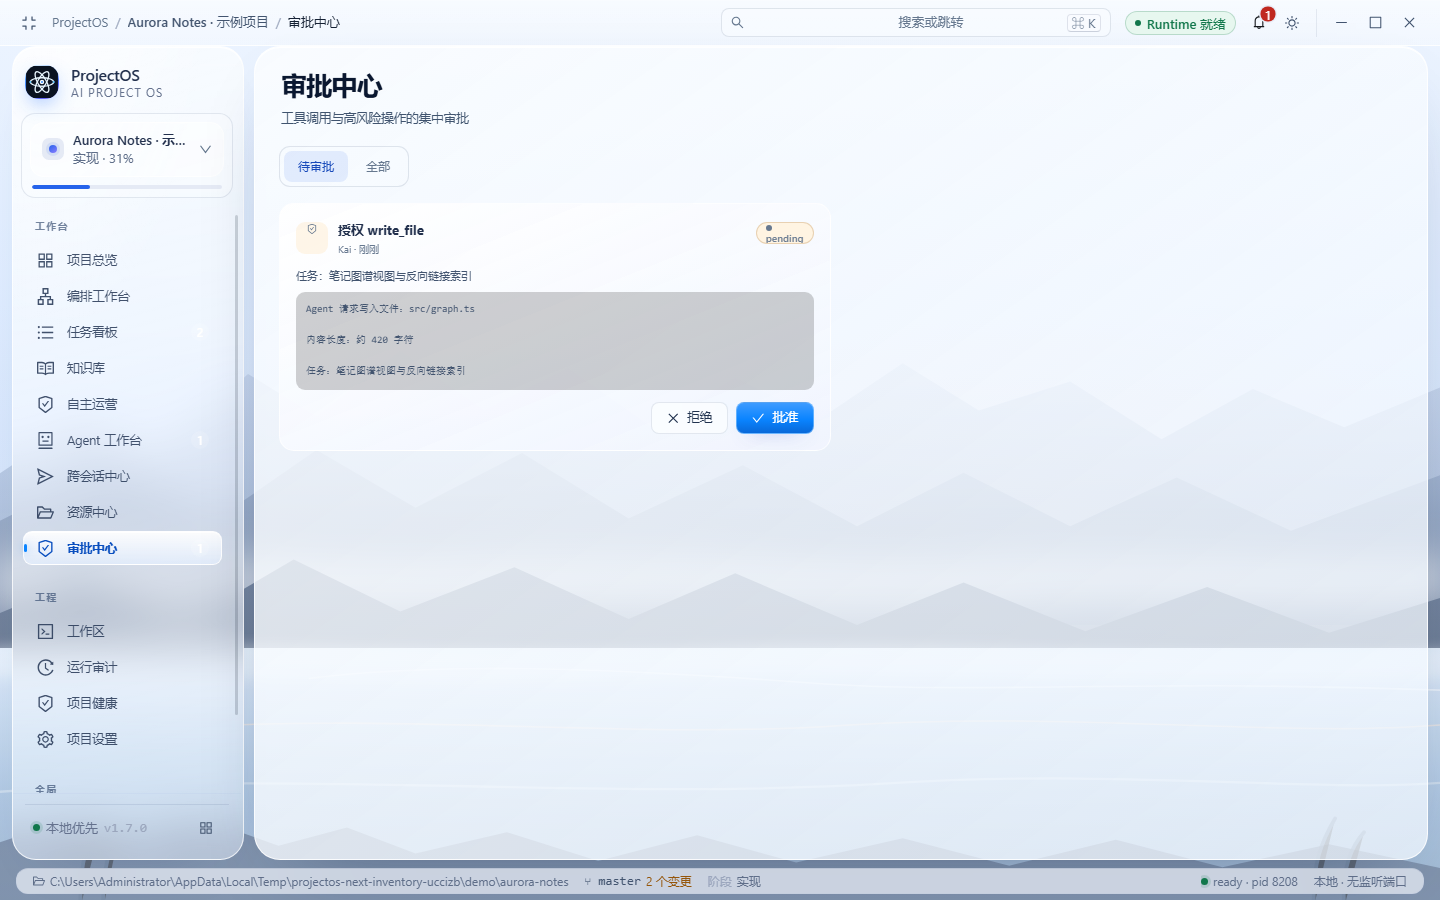
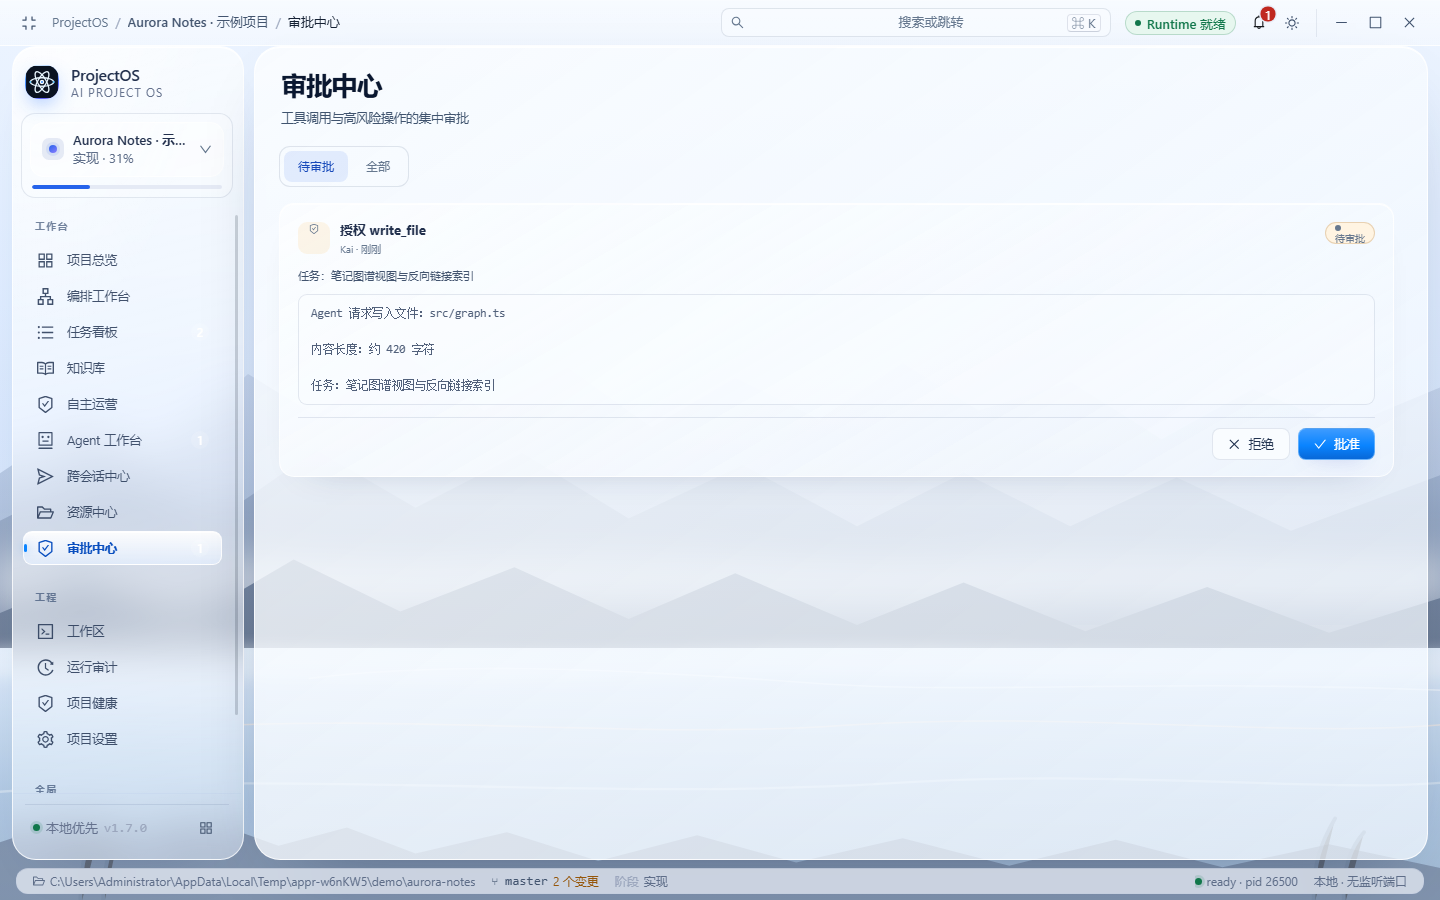
feat(next-ui): refine approvals and operations information surfaces

diff --git a/apps/desktop/src/renderer/src/styles/next-ui-app.css b/apps/desktop/src/renderer/src/styles/next-ui-app.css
@@ -726,3 +726,45 @@
 .pui-overlay-dialog .po-plan-dialog-scroll { padding: 0 18px 4px; }
 .pui-overlay-dialog .po-plan-editor { min-height: min(640px, 72vh); }
 .pui-overlay-dialog .po-plan-footer-actions { width: 100%; }
+
+/* Approval center: one review surface per request, full-width decision card. */
+.v16-approvals-page .v16-approval-grid {
+  grid-template-columns: minmax(0, 1fr);
+  gap: 12px;
+}
+.v16-approvals-page .v16-approval-card {
+  width: 100%;
+  max-width: 100%;
+  padding: 16px 18px;
+  border: 1px solid rgba(255, 255, 255, .78);
+  border-radius: 15px;
+  background: linear-gradient(150deg, rgba(251, 253, 255, .86), rgba(242, 248, 255, .64));
+  box-shadow: inset 0 1px 0 rgba(255, 255, 255, .9), 0 16px 38px -34px rgba(18, 38, 73, .42);
+}
+:root[data-theme='dark'] .v16-approvals-page .v16-approval-card {
+  border-color: var(--nx-line);
+  background: linear-gradient(150deg, rgba(25, 38, 64, .86), rgba(12, 21, 38, .72));
+}
+.v16-approvals-page .v16-approval-detail {
+  max-height: 180px;
+  margin: 10px 0 12px;
+  padding: 10px 12px;
+  border: 1px solid var(--nx-line);
+  border-radius: 9px;
+  background: color-mix(in srgb, var(--nx-solid) 38%, transparent);
+  color: var(--nx-ink-2);
+  font-size: 11.5px;
+  line-height: 1.55;
+  white-space: pre-wrap;
+}
+.v16-approvals-page .v16-approval-card footer { padding-top: 10px; border-top: 1px solid var(--nx-line); }
+
+/* Operational surfaces size to content; empty states must not reserve a fake
+   dashboard-height card. */
+.po-operations-grid { grid-template-columns: minmax(0, 1fr) minmax(0, 1.35fr) minmax(0, 1fr); }
+.po-operations-card { min-height: 0; padding: 14px 15px; border: 1px solid rgba(255,255,255,.76); border-radius: 15px; background: linear-gradient(150deg, rgba(251,253,255,.82), rgba(241,247,255,.58)); box-shadow: inset 0 1px 0 rgba(255,255,255,.86), 0 16px 36px -34px rgba(18,38,73,.42); }
+:root[data-theme='dark'] .po-operations-card { border-color: var(--nx-line); background: linear-gradient(150deg, rgba(25,38,64,.84), rgba(12,21,38,.7)); }
+.po-operations-card-head { padding-bottom: 9px; border-bottom: 1px solid var(--nx-line); }
+.po-operations-card-head strong { color: var(--nx-ink); font-size: 12.5px; }
+@media (max-width: 1100px) { .po-operations-grid { grid-template-columns: 1fr 1fr; } }
+@media (max-width: 760px) { .po-operations-grid { grid-template-columns: 1fr; } }

diff --git a/apps/desktop/src/renderer/src/pages/ApprovalsPage.tsx b/apps/desktop/src/renderer/src/pages/ApprovalsPage.tsx
@@ -8,6 +8,10 @@ import { useApprovals } from '../lib/queries'
 import { errorMessage } from '../lib/errors'
 import { formatRelative } from '../lib/format'
 
+function approvalStatusLabel(status: string): string {
+  return status === 'pending' ? '待审批' : status === 'approved' ? '已批准' : status === 'rejected' ? '已拒绝' : status
+}
+
 export default function ApprovalsPage() {
   const { projectId } = useParams<{ projectId: string }>()
   const { message } = AntApp.useApp()
@@ -46,7 +50,7 @@ export default function ApprovalsPage() {
               <header>
                 <span className="v16-approval-card-icon"><SafetyCertificateOutlined /></span>
                 <div><strong>{approval.title}</strong><span>{approval.agentName} · {formatRelative(approval.requestedAt)}</span></div>
-                <StatusPill tone={approval.status === 'pending' ? 'warning' : approval.status === 'approved' ? 'success' : 'danger'}>{approval.status}</StatusPill>
+                <StatusPill tone={approval.status === 'pending' ? 'warning' : approval.status === 'approved' ? 'success' : 'danger'}>{approvalStatusLabel(approval.status)}</StatusPill>
               </header>
               {approval.taskTitle ? <div className="v16-approval-task">任务：{approval.taskTitle}</div> : null}
               {approval.detail ? <pre className="v16-approval-detail">{approval.detail}</pre> : null}

diff --git a/apps/desktop/src/renderer/src/pages/OperationsPage.tsx b/apps/desktop/src/renderer/src/pages/OperationsPage.tsx
@@ -216,7 +216,7 @@ export default function OperationsPage() {
 
         <section className="po-operations-card">
           <div className="po-operations-card-head">
-            <strong>Findings</strong>
+            <strong>发现</strong>
             <Button size="small" disabled={!selected.length} loading={busy === 'propose'} onClick={() => void propose()}>
               生成提案 ({selected.length})
             </Button>
@@ -232,7 +232,7 @@ export default function OperationsPage() {
               <Tag>{finding.status}</Tag>
             </div>
           ))}
-          {!data?.findings.length ? <EmptyState compact title="没有 Finding" /> : null}
+          {!data?.findings.length ? <EmptyState compact title="没有待处理问题" /> : null}
         </section>
 
         <section className="po-operations-card">
@@ -298,7 +298,3 @@ export default function OperationsPage() {
     </div>
   )
 }
-
-
-
-

diff --git a/docs/next-ui/MIGRATION_PROGRESS.md b/docs/next-ui/MIGRATION_PROGRESS.md
@@ -43,9 +43,9 @@ Status legend: `not-started`, `in-progress`, `migrated`, `blocked`, `not-applica
 | 8 | Teamwork / Collaboration `/collaboration` | `pages/CollaborationPage.tsx` | inbox, handoff, cross-session messages | shared DialogShell send message | in-progress — overlay migrated; page composition pending |
 | 9 | Workspace `/workspace` | `pages/WorkspacePage.tsx` | files, editor, preview, git | file/preview panels | in-progress (global skin) |
 | 10 | Knowledge `/knowledge` | `pages/KnowledgePage.tsx` | knowledge search/entries | detail/actions | in-progress (global skin) |
-| 11 | Operations `/operations` | `pages/OperationsPage.tsx` | operations snapshot, repair proposals | proposal detail | in-progress (global skin) |
+| 11 | Operations `/operations` | `pages/OperationsPage.tsx` | operations snapshot, repair proposals | proposal detail | in-progress — compact operational cards, localized findings |
 | 12 | Resources `/resources` | `pages/ResourcesPage.tsx` | resource inventory | row actions | in-progress (global skin) |
-| 13 | Approvals `/approvals` | `pages/ApprovalsPage.tsx` | approval decisions | approval detail | in-progress (global skin) |
+| 13 | Approvals `/approvals` | `pages/ApprovalsPage.tsx` | approval decisions | approval detail | in-progress — full-width decision surface |
 | 14 | Project Settings `/project-settings` | `pages/ProjectSettingsPage.tsx` | project config, policy | forms | in-progress (global skin) |
 | 15 | Project Health `/health` | `pages/ProjectHealthPage.tsx` | health checks, repair | repair dialogs | in-progress (global skin) |
 | 16 | Runs `/runs` | `pages/RunsPage.tsx` | run list/detail, reconcile | SheetShell detail, DialogShell reconcile | in-progress — overlays migrated; page composition pending |
@@ -332,3 +332,13 @@ Head: `8023df5`.
 - Legacy PlanReviewWorkbench deleted after helper import extraction.
 - 15-page Electron inventory captured, 0 errors.
 - 265 unit tests, plan-review 10/10, v13 PASS.
+
+
+## Slice 14 — Information-page composition
+
+- Approvals: request decision surface is full-width, status labels localized, raw
+  detail is an inset evidence block rather than a flat grey paragraph box.
+- Operations: three equal empty columns reduced to content-sized operational
+  cards; labels localized (`发现`), no giant placeholder height.
+- Screenshots refreshed in `docs/next-ui/screens/pages/approvals.png` and
+  `operations.png`.
